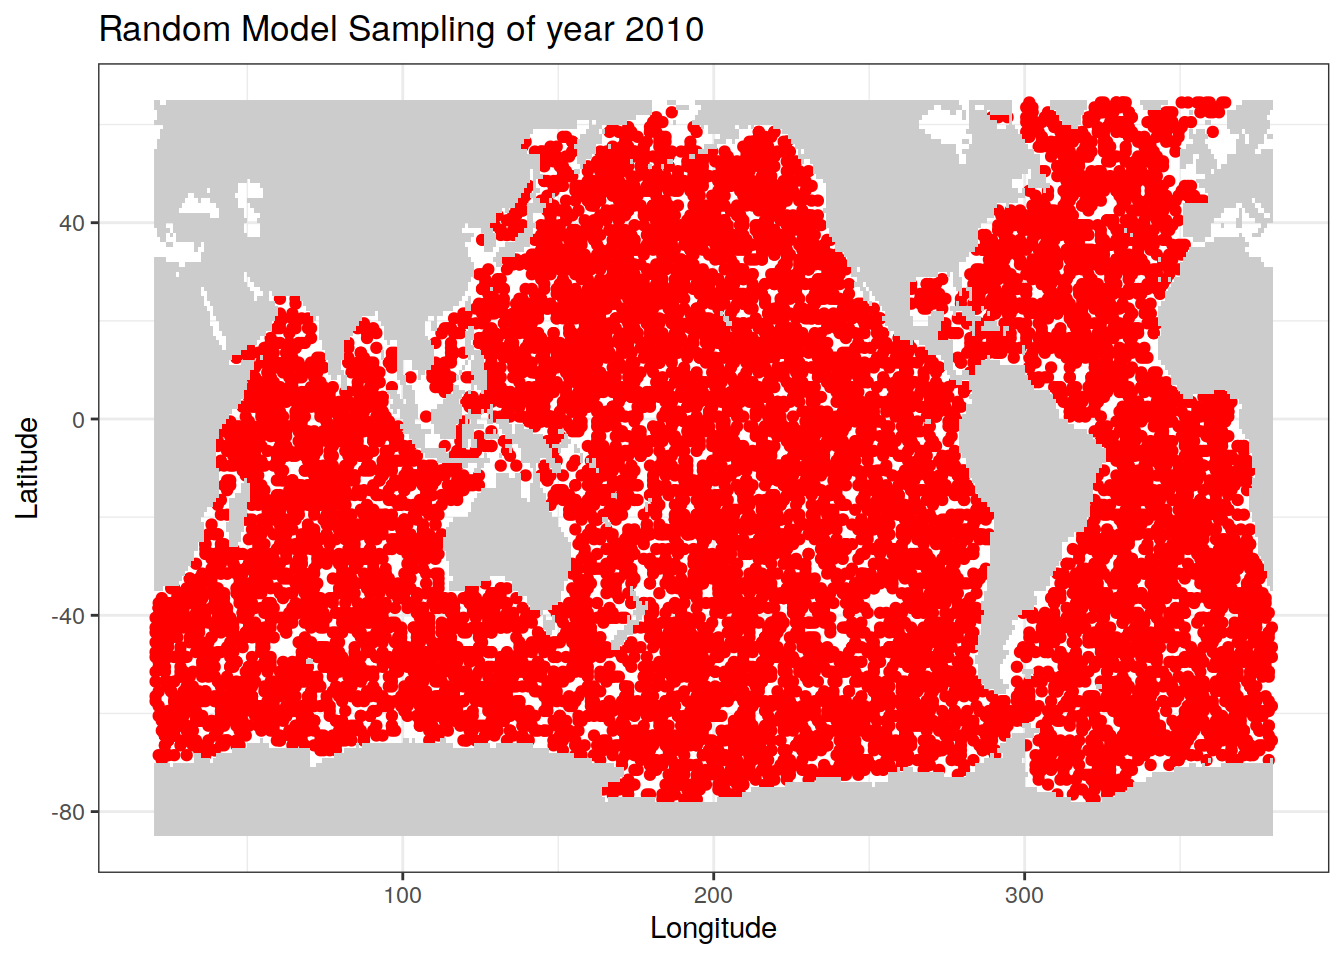
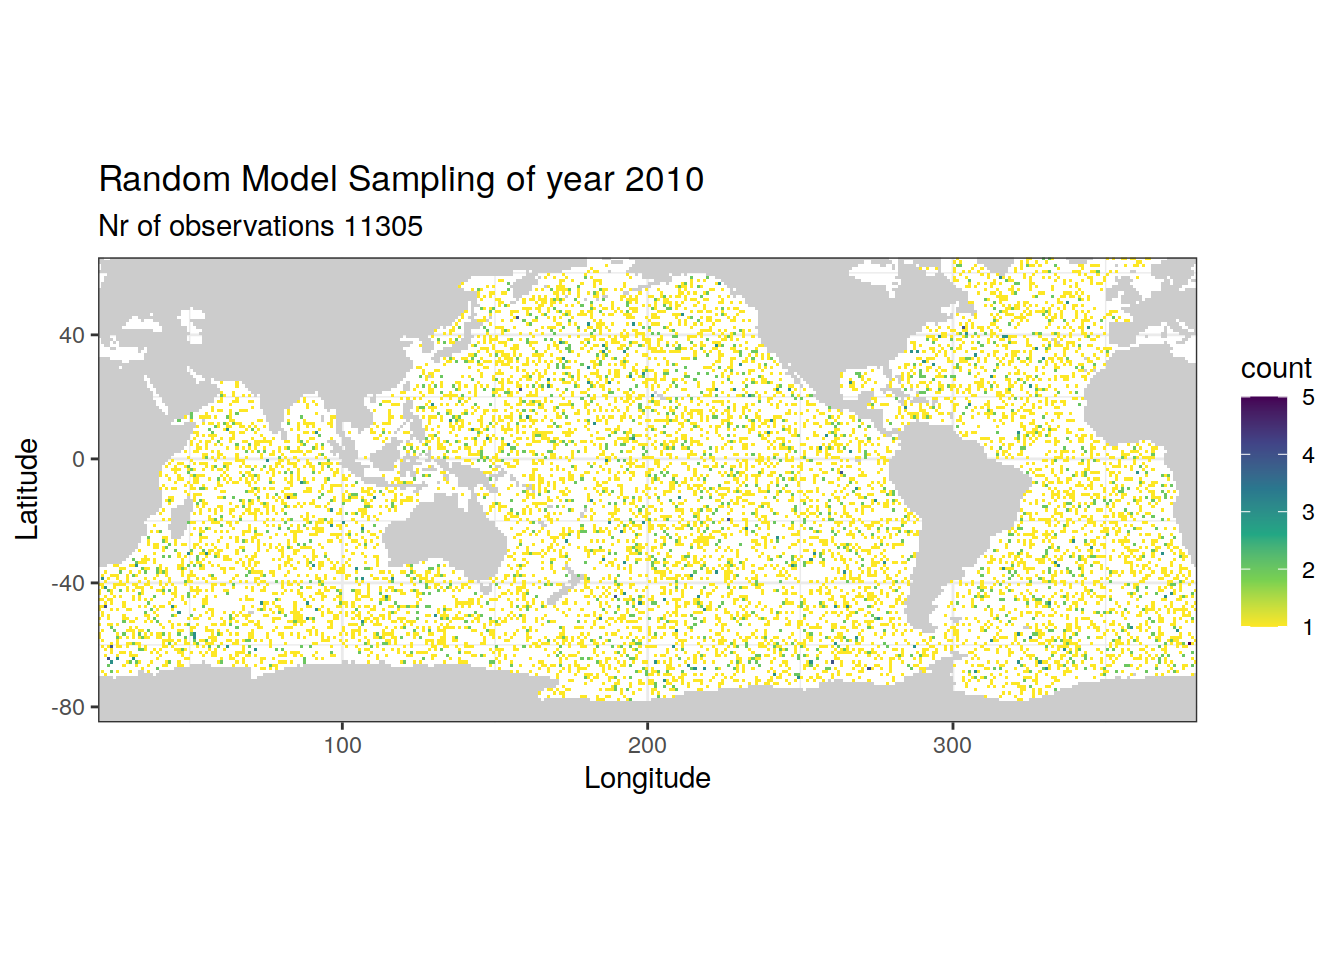
Build site.

diff --git a/docs/read_model_data_random.html b/docs/read_model_data_random.html
@@ -562,16 +562,16 @@ This reproducible <a href="http://rmarkdown.rstudio.com">R Markdown</a> analysis
 <div class="panel panel-default">
 <div class="panel-heading">
 <p class="panel-title">
-<a data-toggle="collapse" data-parent="#workflowr-checks" href="#strongRepositoryversionstrongahrefhttpsgithubcomDongheZhueMLRmodeltree0f3184a480bba49633937f832196bf9fb6fd4cc1targetblank0f3184aa"> <span class="glyphicon glyphicon-ok text-success" aria-hidden="true"></span> <strong>Repository version:</strong> <a href="https://github.com/Donghe-Zhu/eMLR_model/tree/0f3184a480bba49633937f832196bf9fb6fd4cc1" target="_blank">0f3184a</a> </a>
+<a data-toggle="collapse" data-parent="#workflowr-checks" href="#strongRepositoryversionstrongahrefhttpsgithubcomDongheZhueMLRmodeltreed4a67e787938ebe7f5bdfe941a048413ac4c047ftargetblankd4a67e7a"> <span class="glyphicon glyphicon-ok text-success" aria-hidden="true"></span> <strong>Repository version:</strong> <a href="https://github.com/Donghe-Zhu/eMLR_model/tree/d4a67e787938ebe7f5bdfe941a048413ac4c047f" target="_blank">d4a67e7</a> </a>
 </p>
 </div>
[2 lines of base64/hex data omitted]
 <div class="panel-body">
 <p>
 Great! You are using Git for version control. Tracking code development and connecting the code version to the results is critical for reproducibility.
 </p>
 <p>
-The results in this page were generated with repository version <a href="https://github.com/Donghe-Zhu/eMLR_model/tree/0f3184a480bba49633937f832196bf9fb6fd4cc1" target="_blank">0f3184a</a>. See the <em>Past versions</em> tab to see a history of the changes made to the R Markdown and HTML files.
+The results in this page were generated with repository version <a href="https://github.com/Donghe-Zhu/eMLR_model/tree/d4a67e787938ebe7f5bdfe941a048413ac4c047f" target="_blank">d4a67e7</a>. See the <em>Past versions</em> tab to see a history of the changes made to the R Markdown and HTML files.
 </p>
 <p>
 Note that you need to be careful to ensure that all relevant files for the analysis have been committed to Git prior to generating the results (you can use <code>wflow_publish</code> or <code>wflow_git_commit</code>). workflowr only checks the R Markdown file, but you know if there are other scripts or data files that it depends on. Below is the status of the Git repository when the results were generated:
@@ -622,6 +622,40 @@ Message
 </tr>
 </thead>
 <tbody>
+<tr>
+<td>
+Rmd
+</td>
+<td>
+<a href="https://github.com/Donghe-Zhu/eMLR_model/blob/d4a67e787938ebe7f5bdfe941a048413ac4c047f/analysis/read_model_data_random.Rmd" target="_blank">d4a67e7</a>
+</td>
+<td>
+jens-daniel-mueller
+</td>
+<td>
+2020-12-14
+</td>
+<td>
+Analysed depth distribution of random model subset
+</td>
+</tr>
+<tr>
+<td>
+html
+</td>
+<td>
+<a href="https://rawcdn.githack.com/Donghe-Zhu/eMLR_model/6d15a09519d5fe36da1c97782e7ed5a582b2ce2a/docs/read_model_data_random.html" target="_blank">6d15a09</a>
+</td>
+<td>
+Donghe-Zhu
+</td>
+<td>
+2020-12-14
+</td>
+<td>
+Build site.
+</td>
+</tr>
 <tr>
 <td>
 Rmd
@@ -885,21 +919,28 @@ model_resample &lt;-
 # plot random sampling cmorized grids in each year
 years &lt;- c(&quot;1982&quot;, &quot;1990&quot;, &quot;2000&quot;, &quot;2010&quot;, &quot;2019&quot;)
 for (i_year in years) {
+  # i_year &lt;- years[1]
+  
   model_resample_year &lt;- model_resample %&gt;%
     filter(year == i_year)
   
   print(
     ggplot() +
-      geom_point(data = model_resample_year,
-                 aes(lon, lat), colour = &quot;red&quot;) +
+      geom_bin2d(data = model_resample_year,
+                 aes(lon, lat),
+                 binwidth = 1) +
+      scale_fill_viridis_c(direction = -1) +
+      coord_quickmap(expand = 0) +
       labs(
         title = paste(&quot;Random Model Sampling of year&quot;, i_year),
+        subtitle = paste(&quot;Nr of observations&quot;, nrow(model_resample_year)),
         x = &quot;Longitude&quot;,
         y = &quot;Latitude&quot;
       ) +
       geom_raster(data = landmask,
                   aes(lon, lat), fill = &quot;grey80&quot;)
   )
+
 }</code></pre>
 <p><img src="figure/read_model_data_random.Rmd/plot_random_sample_cmorized_data_grid-1.png" width="672" style="display: block; margin: auto;" /></p>
 <p>
@@ -924,6 +965,17 @@ Date
 </tr>
 </thead>
 <tbody>
+<tr>
+<td>
+<a href="https://github.com/Donghe-Zhu/eMLR_model/blob/6d15a09519d5fe36da1c97782e7ed5a582b2ce2a/docs/figure/read_model_data_random.Rmd/plot_random_sample_cmorized_data_grid-1.png" target="_blank">6d15a09</a>
+</td>
+<td>
+Donghe-Zhu
+</td>
+<td>
+2020-12-14
+</td>
+</tr>
 <tr>
 <td>
 <a href="https://github.com/Donghe-Zhu/eMLR_model/blob/9591812b398bb977dacba056fe36a76b21a89489/docs/figure/read_model_data_random.Rmd/plot_random_sample_cmorized_data_grid-1.png" target="_blank">9591812</a>
@@ -964,6 +1016,17 @@ Date
 <tbody>
 <tr>
 <td>
+<a href="https://github.com/Donghe-Zhu/eMLR_model/blob/6d15a09519d5fe36da1c97782e7ed5a582b2ce2a/docs/figure/read_model_data_random.Rmd/plot_random_sample_cmorized_data_grid-2.png" target="_blank">6d15a09</a>
+</td>
+<td>
+Donghe-Zhu
+</td>
+<td>
+2020-12-14
+</td>
+</tr>
+<tr>
+<td>
 <a href="https://github.com/Donghe-Zhu/eMLR_model/blob/9591812b398bb977dacba056fe36a76b21a89489/docs/figure/read_model_data_random.Rmd/plot_random_sample_cmorized_data_grid-2.png" target="_blank">9591812</a>
 </td>
 <td>
@@ -1000,6 +1063,17 @@ Date
 </tr>
 </thead>
 <tbody>
+<tr>
+<td>
+<a href="https://github.com/Donghe-Zhu/eMLR_model/blob/6d15a09519d5fe36da1c97782e7ed5a582b2ce2a/docs/figure/read_model_data_random.Rmd/plot_random_sample_cmorized_data_grid-3.png" target="_blank">6d15a09</a>
+</td>
+<td>
+Donghe-Zhu
+</td>
+<td>
+2020-12-14
+</td>
+</tr>
 <tr>
 <td>
 <a href="https://github.com/Donghe-Zhu/eMLR_model/blob/9591812b398bb977dacba056fe36a76b21a89489/docs/figure/read_model_data_random.Rmd/plot_random_sample_cmorized_data_grid-3.png" target="_blank">9591812</a>
@@ -1040,6 +1114,17 @@ Date
 <tbody>
 <tr>
 <td>
+<a href="https://github.com/Donghe-Zhu/eMLR_model/blob/6d15a09519d5fe36da1c97782e7ed5a582b2ce2a/docs/figure/read_model_data_random.Rmd/plot_random_sample_cmorized_data_grid-4.png" target="_blank">6d15a09</a>
+</td>
+<td>
+Donghe-Zhu
+</td>
+<td>
+2020-12-14
+</td>
+</tr>
+<tr>
+<td>
 <a href="https://github.com/Donghe-Zhu/eMLR_model/blob/9591812b398bb977dacba056fe36a76b21a89489/docs/figure/read_model_data_random.Rmd/plot_random_sample_cmorized_data_grid-4.png" target="_blank">9591812</a>
 </td>
 <td>
@@ -1078,6 +1163,17 @@ Date
 <tbody>
 <tr>
 <td>
+<a href="https://github.com/Donghe-Zhu/eMLR_model/blob/6d15a09519d5fe36da1c97782e7ed5a582b2ce2a/docs/figure/read_model_data_random.Rmd/plot_random_sample_cmorized_data_grid-5.png" target="_blank">6d15a09</a>
+</td>
+<td>
+Donghe-Zhu
+</td>
+<td>
+2020-12-14
+</td>
+</tr>
+<tr>
+<td>
 <a href="https://github.com/Donghe-Zhu/eMLR_model/blob/9591812b398bb977dacba056fe36a76b21a89489/docs/figure/read_model_data_random.Rmd/plot_random_sample_cmorized_data_grid-5.png" target="_blank">9591812</a>
 </td>
 <td>
@@ -1091,6 +1187,56 @@ Donghe-Zhu
 </table>
 </div>
 </div>
+<pre class="r"><code># Calculate and plot depth distribution of model subset
+model_resample_depth &lt;- model_resample %&gt;%
+  count(depth, year)
+
+model_resample_depth_average &lt;- model_resample_depth %&gt;%
+  group_by(depth) %&gt;%
+  summarise(n = mean(n))
+
+model_resample_depth_average %&gt;%
+  arrange(depth) %&gt;%
+  ggplot(aes(n, depth)) +
+  geom_point(data = model_resample_depth,
+             aes(n, depth, col = &quot;All years&quot;)) +
+  geom_point(aes(n, depth, col = &quot;Average&quot;)) +
+  geom_path(aes(n, depth, col = &quot;Average&quot;)) +
+  scale_color_brewer(palette = &quot;Set1&quot;,
+                     name = &quot;&quot;,
+                     direction = -1) +
+  scale_y_reverse() +
+  coord_cartesian(xlim = c(0,500),
+                  ylim = c(6000,0)) +
+  labs(title = &quot;Depth distribution of random model subset&quot;)</code></pre>
+<p><img src="figure/read_model_data_random.Rmd/plot_random_sample_cmorized_data_grid-6.png" width="672" style="display: block; margin: auto;" /></p>
+<pre class="r"><code># Calculate and plot depth distribution of GLODAP data
+# Depths gridded to model depth levels for comparison
+GLODAP_depth &lt;- GLODAP %&gt;%
+  mutate(depth = as.numeric(as.character(cut(depth,
+                     c(0,unique(model_resample_depth_average$depth)),
+                     labels = unique(model_resample_depth_average$depth))))) %&gt;% 
+  count(depth, year)
+
+GLODAP_depth_average &lt;- GLODAP_depth %&gt;%
+  group_by(depth) %&gt;%
+  summarise(n = mean(n))
+
+GLODAP_depth_average %&gt;%
+  arrange(depth) %&gt;%
+  ggplot(aes(n, depth)) +
+  geom_point(data = GLODAP_depth,
+             aes(n, depth, col = &quot;All years&quot;)) +
+  geom_point(aes(n, depth, col = &quot;Average&quot;)) +
+  geom_path(aes(n, depth, col = &quot;Average&quot;)) +
+  scale_color_brewer(palette = &quot;Set1&quot;,
+                     name = &quot;&quot;,
+                     direction = -1) +
+  scale_y_reverse() +
+  coord_cartesian(xlim = c(0,500),
+                  ylim = c(6000,0)) +
+  labs(title = &quot;Depth distribution of GLODAP observations&quot;)</code></pre>
+<p><img src="figure/read_model_data_random.Rmd/plot_random_sample_cmorized_data_grid-7.png" width="672" style="display: block; margin: auto;" /></p>
 <br>
 <p>
 <button type="button" class="btn btn-default btn-workflowr btn-workflowr-sessioninfo" data-toggle="collapse" data-target="#workflowr-sessioninfo" style="display: block;">
@@ -1119,7 +1265,7 @@ attached base packages:
 [1] stats     graphics  grDevices utils     datasets  methods   base     
 
 other attached packages:
- [1] marelac_2.1.10    shape_1.4.5       gsw_1.0-5         testthat_2.3.2   
+ [1] marelac_2.1.10    shape_1.4.5       gsw_1.0-5         testthat_3.0.0   
  [5] rqdatatable_1.2.9 rquery_1.4.6      wrapr_2.0.4       lubridate_1.7.9  
  [9] collapse_1.4.2    stars_0.4-3       sf_0.9-6          abind_1.4-5      
 [13] patchwork_1.1.0   forcats_0.5.0     stringr_1.4.0     dplyr_1.0.2      
@@ -1127,30 +1273,31 @@ other attached packages:
 [21] ggplot2_3.3.2     tidyverse_1.3.0   workflowr_1.6.2  
 
 loaded via a namespace (and not attached):
- [1] fs_1.5.0                 httr_1.4.2               rprojroot_1.3-2         
- [4] tools_4.0.3              backports_1.1.10         R6_2.5.0                
- [7] KernSmooth_2.23-18       DBI_1.1.0                colorspace_1.4-1        
-[10] withr_2.3.0              tidyselect_1.1.0         compiler_4.0.3          
-[13] git2r_0.27.1             cli_2.1.0                rvest_0.3.6             
-[16] xml2_1.3.2               labeling_0.4.2           scales_1.1.1            
-[19] classInt_0.4-3           digest_0.6.27            rmarkdown_2.5           
-[22] oce_1.2-0                pkgconfig_2.0.3          htmltools_0.5.0         
-[25] dbplyr_1.4.4             rlang_0.4.8              readxl_1.3.1            
-[28] rstudioapi_0.11          farver_2.0.3             generics_0.0.2          
-[31] jsonlite_1.7.1           magrittr_1.5             Matrix_1.2-18           
-[34] Rcpp_1.0.5               munsell_0.5.0            fansi_0.4.1             
-[37] lifecycle_0.2.0          stringi_1.5.3            whisker_0.4             
-[40] yaml_2.2.1               grid_4.0.3               blob_1.2.1              
-[43] parallel_4.0.3           promises_1.1.1           crayon_1.3.4            
-[46] lattice_0.20-41          haven_2.3.1              hms_0.5.3               
-[49] seacarb_3.2.14           knitr_1.30               pillar_1.4.6            
-[52] reprex_0.3.0             glue_1.4.2               evaluate_0.14           
-[55] RcppArmadillo_0.10.1.0.0 data.table_1.13.2        modelr_0.1.8            
-[58] vctrs_0.3.4              httpuv_1.5.4             cellranger_1.1.0        
-[61] gtable_0.3.0             assertthat_0.2.1         xfun_0.18               
-[64] lwgeom_0.2-5             broom_0.7.2              RcppEigen_0.3.3.7.0     
-[67] e1071_1.7-4              later_1.1.0.1            class_7.3-17            
-[70] units_0.6-7              ellipsis_0.3.1           here_0.1                </code></pre>
+ [1] fs_1.5.0                 RColorBrewer_1.1-2       httr_1.4.2              
+ [4] rprojroot_2.0.2          tools_4.0.3              backports_1.1.10        
+ [7] R6_2.5.0                 KernSmooth_2.23-18       DBI_1.1.0               
+[10] colorspace_2.0-0         withr_2.3.0              tidyselect_1.1.0        
+[13] compiler_4.0.3           git2r_0.27.1             cli_2.2.0               
+[16] rvest_0.3.6              xml2_1.3.2               labeling_0.4.2          
+[19] scales_1.1.1             classInt_0.4-3           digest_0.6.27           
+[22] rmarkdown_2.5            oce_1.2-0                pkgconfig_2.0.3         
+[25] htmltools_0.5.0          dbplyr_1.4.4             rlang_0.4.9             
+[28] readxl_1.3.1             rstudioapi_0.13          farver_2.0.3            
+[31] generics_0.0.2           jsonlite_1.7.1           magrittr_2.0.1          
+[34] Matrix_1.2-18            Rcpp_1.0.5               munsell_0.5.0           
+[37] fansi_0.4.1              lifecycle_0.2.0          stringi_1.5.3           
+[40] whisker_0.4              yaml_2.2.1               grid_4.0.3              
+[43] blob_1.2.1               parallel_4.0.3           promises_1.1.1          
+[46] crayon_1.3.4             lattice_0.20-41          haven_2.3.1             
+[49] hms_0.5.3                seacarb_3.2.14           knitr_1.30              
+[52] pillar_1.4.7             reprex_0.3.0             glue_1.4.2              
+[55] evaluate_0.14            RcppArmadillo_0.10.1.2.0 data.table_1.13.2       
+[58] modelr_0.1.8             vctrs_0.3.5              httpuv_1.5.4            
+[61] cellranger_1.1.0         gtable_0.3.0             assertthat_0.2.1        
+[64] xfun_0.18                lwgeom_0.2-5             broom_0.7.2             
+[67] RcppEigen_0.3.3.7.0      e1071_1.7-4              later_1.1.0.1           
+[70] class_7.3-17             viridisLite_0.3.0        units_0.6-7             
+[73] ellipsis_0.3.1           here_0.1                </code></pre>
 </div>
 </div>
 
